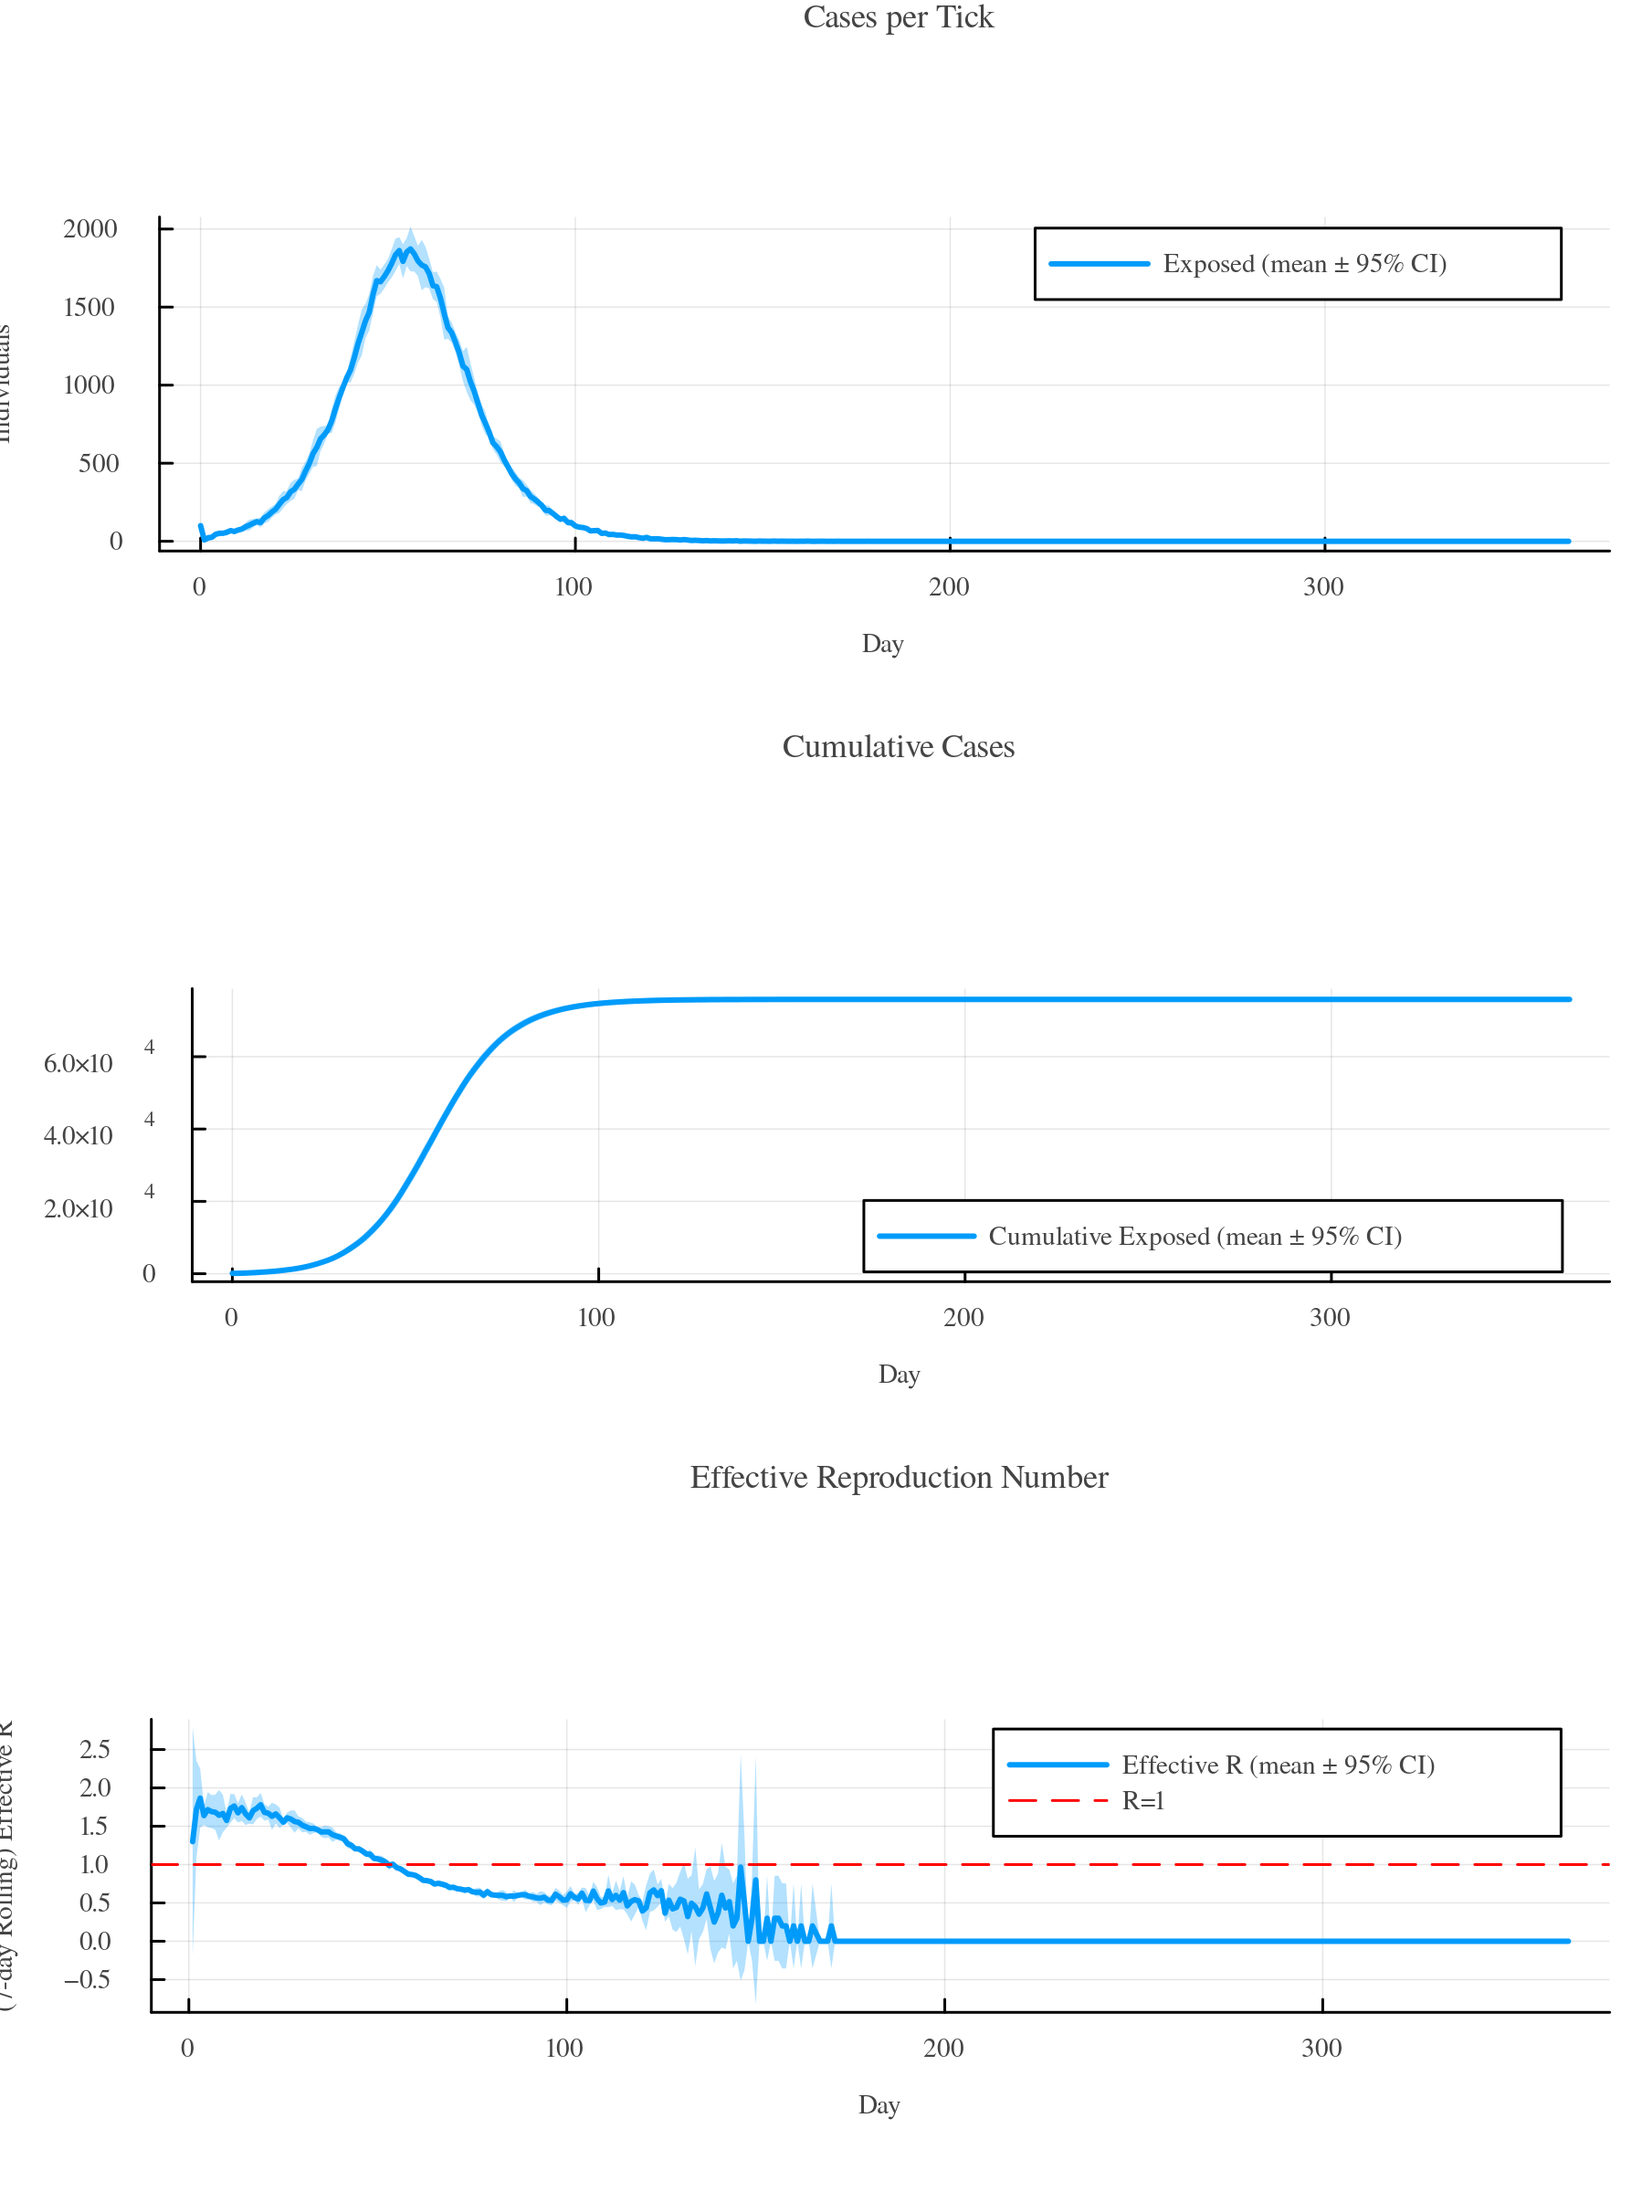
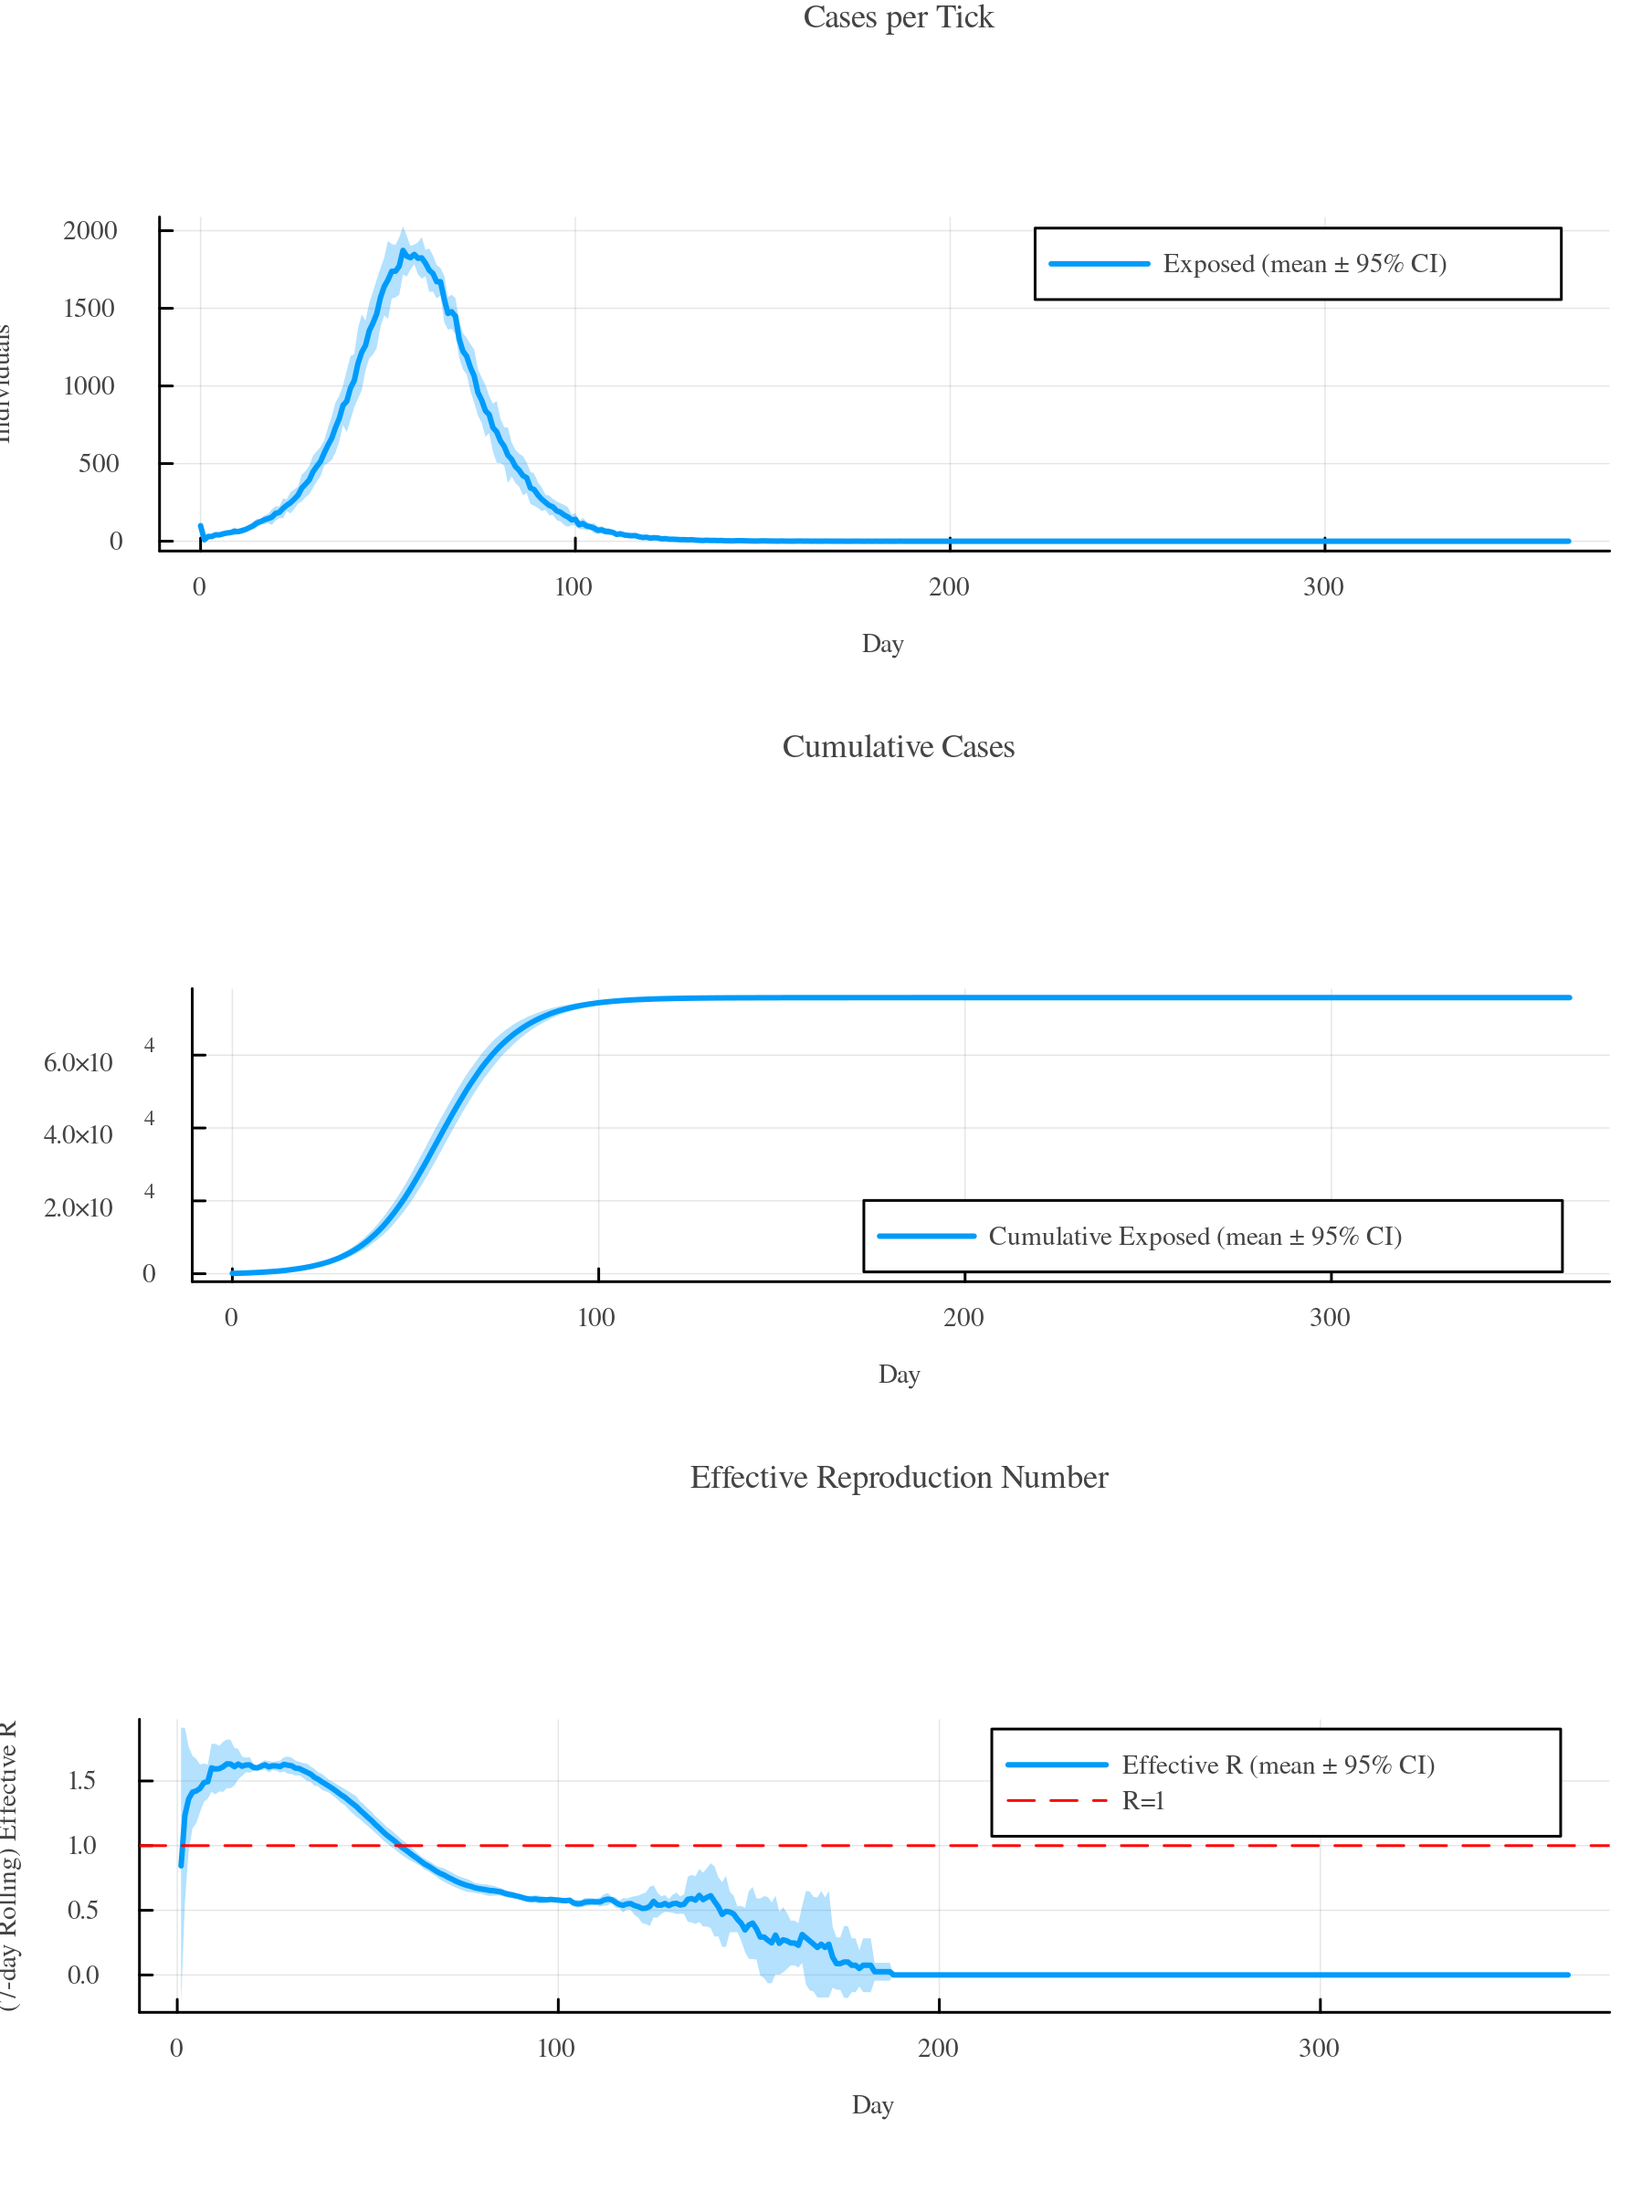
update batching tutorial

diff --git a/docs/src/tut_batches.md b/docs/src/tut_batches.md
@@ -26,15 +26,34 @@ gemsplot(bd)
 </p>
 ``` 
 
+By default, `gemsplot(bd)` shows a mean line with a 95% confidence interval ribbon.
+To see the individual simulation traces, process with `keep_rundata = true` and pass
+`runs(bd)` to `gemsplot`:
 
-Passing a `label` keyword groups all runs under that name:
+```julia
+using GEMS
+
+b = Batch(n_runs = 5)
+bd = BatchData(b; keep_rundata = true)
+gemsplot(runs(bd)) 
+```
+
+**Plot**
+
+```@raw html
+<p align="center">
+    <img src="../assets/tutorials/tut_batches_single_runs.png" width="80%"/>
+</p>
+``` 
+
+If you want to group them, you can pass a `label` keyword:
 
 ```julia
 using GEMS
 
 b = Batch(n_runs = 5, label = "My Experiment")
-bd = BatchData(b)
-gemsplot(bd)
+bd = BatchData(b; keep_rundata = true)
+gemsplot(runs(bd)) 
 ```
 
 **Plot**
@@ -46,9 +65,144 @@ gemsplot(bd)
 ``` 
 
 
+!!! warning "Running Batches with `keep_rundata = true` requires lots of available RAM"
+    By default, `runs(bd)` returns `nothing` to keep memory usage low.
+    Use `keep_rundata = true` only when you need the individual `ResultData` objects.
+
+
+## *BatchData* Objects
+
+While `ResultData` objects are the processed output of single simulation runs, `BatchData` objects are processed output of batches.
+They contain aggregated data on the simulations, e.g., the average number of total infections including standard deviation, confidence intervals and ranges.
+Here's an example:
+
+```julia
+using GEMS
+
+b = Batch(n_runs = 5, label = "My Experiment")
+bd = BatchData(b)
+total_infections(bd)
+```
+
+**Output**
+
+```
+Dict{String, Real} with 6 entries:
+  "upper_95" => 76052.5
+  "max"      => 76088
+  "min"      => 75363
+  "lower_95" => 75415.1
+  "mean"     => 75733.8
+  "std"      => 256.672
+```
+
+Run the `info(...)` function to get an overview of values that you can retrieve from a `BatchData` object by calling a function of the same name (e.g., `total_infections(...)`) on the `BatchData` object:
+
+```julia
+info(bd)
+```
+
+**Output**
+
+```
+BatchData Entries
+└ meta_data
+  └ GEMS_version
+  └ id
+  └ execution_date
+└ dataframes
+  └ hospitalizations
+  └ dark_figure
+  └ generation_times
+  └ tick_cases
+  └ cumulative_disease_progressions
+  └ per_label
+  └ sero_tests
+  └ cumulative_cases
+  └ pool_tests
+  └ effectiveR
+  └ observed_R
+  └ cumulative_quarantines
+  └ tests
+└ sim_data
+  └ median_run
+  └ total_detected_cases
+  └ number_of_runs
+  └ tick_unit
+  └ attack_rate
+  └ detection_rate
+  └ total_infections
+  └ total_quarantines
+  └ total_tests
+  └ r0
+  └ runs
+  └ seed
+└ system_data
+  └ cpu_data
+  └ git_commit
+  └ julia_version
+  └ total_mem_size
+  └ threads
+  └ kernel
+  └ free_mem_size
+  └ git_branch
+  └ word_size
+  └ git_repo
+```
+
+## Custom *BatchDataStyles*
+
+t.b.d.
+
+## Running Scenarios
+
+GEMS' batch functionalities offer easy options to compare different scenarios and run multiple simulations for each of them.
+The example below compares a baseline scenario with a scenario with a lower `transmission_rate` and we assume that this is due to mask-wearing mandates.
+It spawns five simulations for each of the scenarios (grouped by label), merges them into one batch, and visualizes the results:
+
+```julia
+using GEMS
+
+baseline = Batch(n_runs = 5, transmission_rate = 0.2, label = "Baseline")
+masks = Batch(n_runs = 5, transmission_rate = 0.15, label = "Mask Wearing")
+bd = BatchData(merge(baseline, masks))
+gemsplot(bd)
+```
+
+**Plot**
+
+```@raw html
+<p align="center">
+    <img src="../assets/tutorials/tut_batches_scenarios.png" width="80%"/>
+</p>
+``` 
+
+To see the individual simulation traces, process with `keep_rundata = true` and pass
+`runs(bd)` to `gemsplot`:
+
+```julia
+using GEMS
+
+baseline = Batch(n_runs = 5, transmission_rate = 0.2, label = "Baseline")
+masks = Batch(n_runs = 5, transmission_rate = 0.15, label = "Mask Wearing")
+bd = BatchData(merge(baseline, masks); keep_rundata = true)
+gemsplot(runs(bd)) 
+```
+
+**Plot**
+
+```@raw html
+<p align="center">
+    <img src="../assets/tutorials/tut_batches_scenarios_single_runs.png" width="80%"/>
+</p>
+``` 
+
+Of course, all of this can also be done with much more complex intervention strategies.
+Please look up the interventions tutorial for examples.
+
 ## Sweeping Parameter Spaces
 
-To scan parameter spaces, create one single-run batch per configuration and merge them:
+To scan parameter spaces, create one batch per configuration and merge them:
 
 ```julia
 using GEMS
@@ -112,177 +266,6 @@ gemsheatmap(xvals, yvals, outvals,
 !!! info "How can I run more than one repetition per combination?"
     You can enclose the experiment in another loop, running each combination as many times as you want. The `gemsheatmap()` function can take multiple entries of the same (`xvals`, `yvals`) combinations. It automatically generates the mean value across observations. You can also change the aggregation function. Please lookup the `gemsheatmap()` documentation.
 
-## Running Scenarios
-
-GEMS' batch functionalities offer easy options to compare different scenarios and run multiple simulations for each of them.
-The example below compares a baseline scenario with a scenario with a lower `transmission_rate` and we assume that this is due to mask-wearing mandates.
-It spawns five simulations for each of the scenarios, merges them into one batch, and visualizes the results:
-
-```julia
-using GEMS
-
-baseline = Batch(n_runs = 5, transmission_rate = 0.2, label = "Baseline")
-masks = Batch(n_runs = 5, transmission_rate = 0.15, label = "Mask Wearing")
-bd = BatchData(merge(baseline, masks))
-gemsplot(bd)
-```
-
-**Plot**
-
-```@raw html
-<p align="center">
-    <img src="../assets/tutorials/tut_batches_scenarios.png" width="80%"/>
-</p>
-``` 
-
-
-When a `BatchData` object contains multiple labels, `gemsplot` automatically shows
-one mean±CI ribbon per label, coloured differently:
-
-```julia
-gemsplot(bd, type = :TickCases)
-```
-
-
-**Plot**
-
-```@raw html
-<p align="center">
-    <img src="../assets/tutorials/tut_batches_combined.png" width="60%"/>
-</p>
-``` 
-
-
-Of course, all of this can also be done with much more complex intervention strategies.
-Please look up the interventions tutorial for examples.
-
-
-## Merging Batches
-
-Sometimes it's easier to build up batches individually and then merge them into one for execution.
-Here's an example of how that can be done based on the scenario of the previous chapter:
-
-```julia
-using GEMS
-
-b1 = Batch(n_runs = 5, transmission_rate = 0.2, label = "Baseline")
-b2 = Batch(n_runs = 5, transmission_rate = 0.15, label = "Mask Wearing")
-bd = BatchData(merge(b1, b2))
-gemsplot(bd, type = :TickCases)
-```
-
-
-**Plot**
-
-```@raw html
-<p align="center">
-    <img src="../assets/tutorials/tut_batches_2.png" width="60%"/>
-</p>
-``` 
-
-
-
-## *BatchData* Objects
-
-While `ResultData` objects are the processed output of single simulation runs, `BatchData` objects are processed output of batches.
-They contain aggregated data on the simulations, e.g., the average number of total infections including standard deviation, confidence intervals and ranges.
-Here's an example:
-
-```julia
-using GEMS
-
-b = Batch(n_runs = 5, label = "My Experiment")
-bd = BatchData(b)
-total_infections(bd)
-```
-
-**Output**
-
-```
-Dict{String, Real} with 6 entries:
-  "upper_95" => 76052.5
-  "max"      => 76088
-  "min"      => 75363
-  "lower_95" => 75415.1
-  "mean"     => 75733.8
-  "std"      => 256.672
-```
-
-Run the `info(...)` function to get an overview of values that you can retrieve from a `BatchData` object by calling a function of the same name (e.g., `total_infections(...)`) on the `BatchData` object:
-
-```julia
-info(bd)
-```
-
-**Output**
-
-```
-BatchData Entries
-└ meta_data
-  └ GEMS_version
-  └ id
-  └ execution_date
-  └ seed
-└ dataframes
-  └ tick_cases
-  └ effectiveR
-  └ cumulative_disease_progressions
-  └ cumulative_quarantines
-  └ tests
-  └ dark_figure
-  └ cumulative_cases
-  └ generation_times
-  └ per_label
-└ sim_data
-  └ total_tests
-  └ number_of_runs
-  └ attack_rate
-  └ total_infections
-  └ total_quarantines
-  └ median_run
-  └ tick_unit
-└ system_data
-...
-```
-
-It's also possible to directly pass `BatchData` objects to the `gemsplot()` function:
-
-```julia
-gemsplot(bd)
-```
-
-
-**Plot**
-
-```@raw html
-<p align="center">
-    <img src="../assets/tutorials/tut_batches_batchdata.png" width="80%"/>
-</p>
-``` 
-
-By default, `gemsplot(bd)` shows a mean line with a 95% confidence interval ribbon.
-To see the individual simulation traces, process with `keep_rundata = true` and pass
-`runs(bd)` to `gemsplot`:
-
-```julia
-bd = BatchData(b; keep_rundata = true)
-gemsplot(runs(bd))  # one faded line per run, coloured by label
-```
-
-By default, `runs(bd)` returns `nothing` to keep memory usage low.
-Use `keep_rundata = true` only when you need the individual `ResultData` objects, for
-example to access per-run raw data:
-
-```julia
-bd = BatchData(b, rd_style = "DefaultResultData", keep_rundata = true)
-rns = runs(bd)
-infections(rns[1])
-```
-
-
-## Custom *BatchDataStyles*
-
-t.b.d.
 
 
 ## Reproducibility
